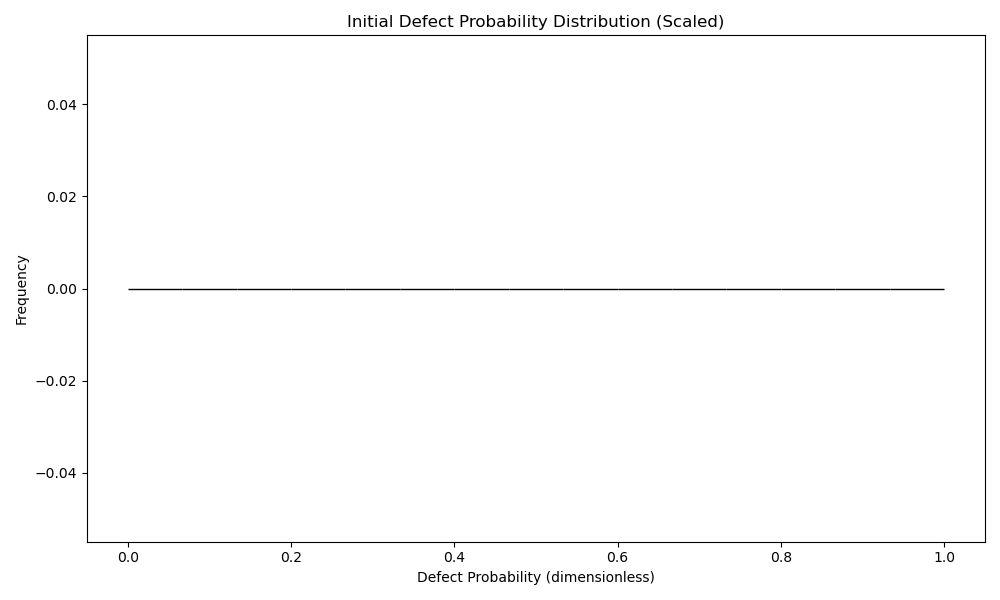
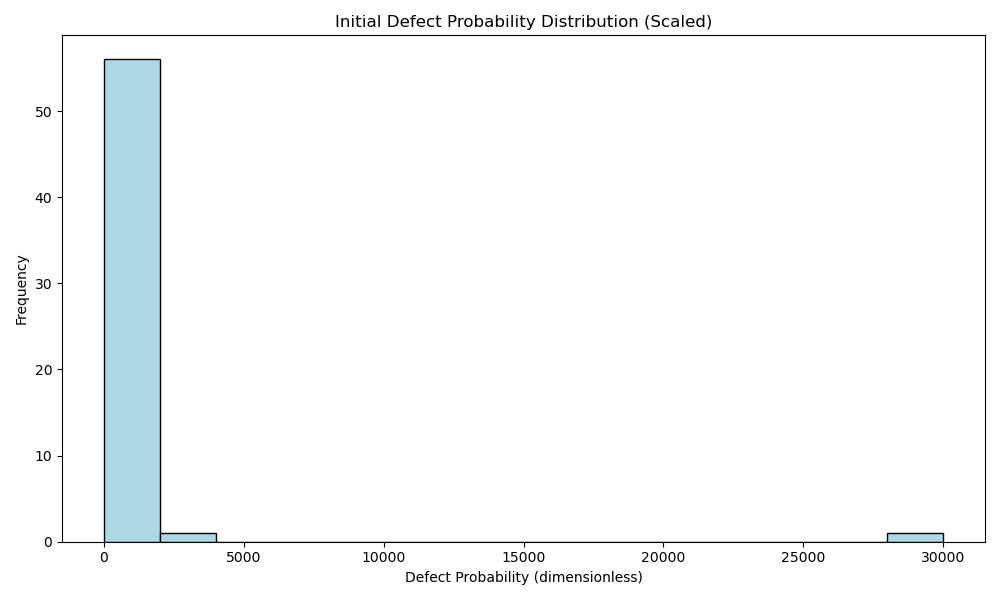
debugging results

diff --git a/src/bayesian_inference.py b/src/bayesian_inference.py
@@ -84,35 +84,52 @@ def bayesian_update(material_data, process_data, env_data, new_data=None):
 
     # Initialize priors based on input data
     priors = {}
-    for data in [material_data, process_data, env_data]:
+    default_value = 0.01  # Default if parameter data is missing or non-numeric
+    default_uncertainty = 0.1  # Default uncertainty if missing
+
+    for data, name in zip([material_data, process_data, env_data], ["Material", "Process", "Environmental"]):
         for index, row in data.iterrows():
             parameter = row['parameter']
             value = row['value']
             uncertainty = row['uncertainty']
 
-            # Handle categorical values
+            # Handle categorical values with consistent defaults
             if isinstance(value, str):
                 if parameter == 'aggregate_shape':
                     value = 1 if value == 'angular' else 0.5
                 elif parameter == 'aggregate_alignment':
                     value = 1 if value == 'random' else 0.75
+                print(f"Converted categorical value for {parameter}: {value}")
 
-            if pd.notna(value) and pd.notna(uncertainty):
-                priors[parameter] = np.random.normal(value, uncertainty)
-            else:
-                print(f"Skipping {parameter} due to non-numeric value or uncertainty.")
+            # Assign default values if value or uncertainty is missing
+            if pd.isna(value):
+                print(f"Assigning default value for {parameter}")
+                value = default_value
+            if pd.isna(uncertainty):
+                print(f"Assigning default uncertainty for {parameter}")
+                uncertainty = default_uncertainty
+
+            # Assign prior with the (value, uncertainty) pair
+            priors[parameter] = (value, uncertainty)
+            print(f"Assigned Prior for {parameter}: Value={value}, Uncertainty={uncertainty}")
+
+    # Verify if all parameters were assigned priors
+    print("\nFinal Priors:", priors)
 
     # Auto-update priors if new data is provided
     if new_data:
-        # Ensure updated priors don't have zero standard deviation by setting a minimum threshold
-        current_priors = {param: (np.mean(priors[param]), max(np.std(priors[param]), 0.01))
-                          for param in priors if param in new_data and isinstance(priors[param], (int, float))}
-        priors = auto_update_priors(current_priors, new_data)
-        print("Updated Priors with New Data:", priors)
+        current_priors = {
+            param: (np.mean(priors[param]), max(np.std(priors[param]), 0.01))
+            for param in priors if param in new_data and isinstance(priors[param], tuple)
+        }
+        updated_priors = auto_update_priors(current_priors, new_data)
+        if updated_priors:
+            priors.update(updated_priors)
+            print("Updated Priors with New Data:", priors)
 
-    # Calculate and scale down the initial defect probability
-    valid_priors = [abs(priors[key]) for key in priors if isinstance(priors[key], (int, float)) and not np.isnan(priors[key])]
-    defect_probability = np.nanmean(valid_priors) / 10000 if valid_priors else 0
+    # Ensure defect_probability has a non-zero initial baseline
+    valid_priors = [abs(priors[key][0]) for key in priors if isinstance(priors[key][0], (int, float)) and not np.isnan(priors[key][0])]
+    defect_probability = np.nanmean(valid_priors) / 10000 if valid_priors else 0.0001  # Small baseline
     print("Initial defect probability:", defect_probability)
 
     # Plot initial defect probability distribution
@@ -126,8 +143,8 @@ def bayesian_update(material_data, process_data, env_data, new_data=None):
     plt.close()
 
     # Split parameters for two separate plots, ensuring values are numeric
-    param_names = [param for param in priors.keys() if isinstance(priors[param], (int, float)) and not np.isnan(priors[param])]
-    prior_values = [priors[param] for param in param_names]
+    param_names = [param for param in priors.keys() if isinstance(priors[param][0], (int, float)) and not np.isnan(priors[param][0])]
+    prior_values = [priors[param][0] for param in param_names]
     midpoint = len(param_names) // 2
 
     # First half of parameters

diff --git a/src/monte_carlo_simulation.py b/src/monte_carlo_simulation.py
@@ -5,9 +5,7 @@ import matplotlib.pyplot as plt
 parameter_units = {
     "compressive_strength": "MPa",
     "tensile_strength": "MPa",
-    "elastic_modulus": "MPa",
-    # ... [Other parameter units as defined previously]
-    "vibration_level": "(dimensionless)"
+    # Additional parameter units as previously defined
 }
 
 def run_monte_carlo(bayesian_results, num_simulations=1000):
@@ -18,7 +16,10 @@ def run_monte_carlo(bayesian_results, num_simulations=1000):
     """
     defect_probabilities = []
     for i in range(num_simulations):
-        run_result = {param: np.random.normal(mean, 0.01) for param, (mean, _) in bayesian_results['priors'].items()}
+        run_result = {
+            param: np.random.normal(mean, 0.01) if mean is not None else 0.01
+            for param, (mean, _) in bayesian_results['priors'].items()
+        }
         defect_probabilities.append(run_result)
 
     # Adaptive sampling for high-risk defect probabilities
@@ -26,11 +27,16 @@ def run_monte_carlo(bayesian_results, num_simulations=1000):
         np.mean([v for v in run.values() if not np.isnan(v)])
         for run in defect_probabilities if np.mean([v for v in run.values() if not np.isnan(v)]) > 0.1
     ]
-    avg_high_risk_prob = np.mean(high_risk_probs) if high_risk_probs else 0
+    avg_high_risk_prob = np.mean(high_risk_probs) if high_risk_probs else 0.0001  # Small baseline
     print(f"Average high-risk defect probability: {avg_high_risk_prob:.4f} (dimensionless)")
 
+    # Ensure plotting data exists
+    all_probabilities = [
+        np.mean([v for v in run.values() if not np.isnan(v)]) for run in defect_probabilities
+    ]
+    all_probabilities = [p for p in all_probabilities if not np.isnan(p)] or [0.0001]  # Small baseline for plot
+
     # Plot Monte Carlo defect probability distribution
-    all_probabilities = [np.mean([v for v in run.values() if not np.isnan(v)]) for run in defect_probabilities]
     plt.figure(figsize=(10, 6))
     plt.hist(all_probabilities, bins=20, color='lightcoral', edgecolor='black')
     plt.title("Monte Carlo Defect Probability Distribution")
